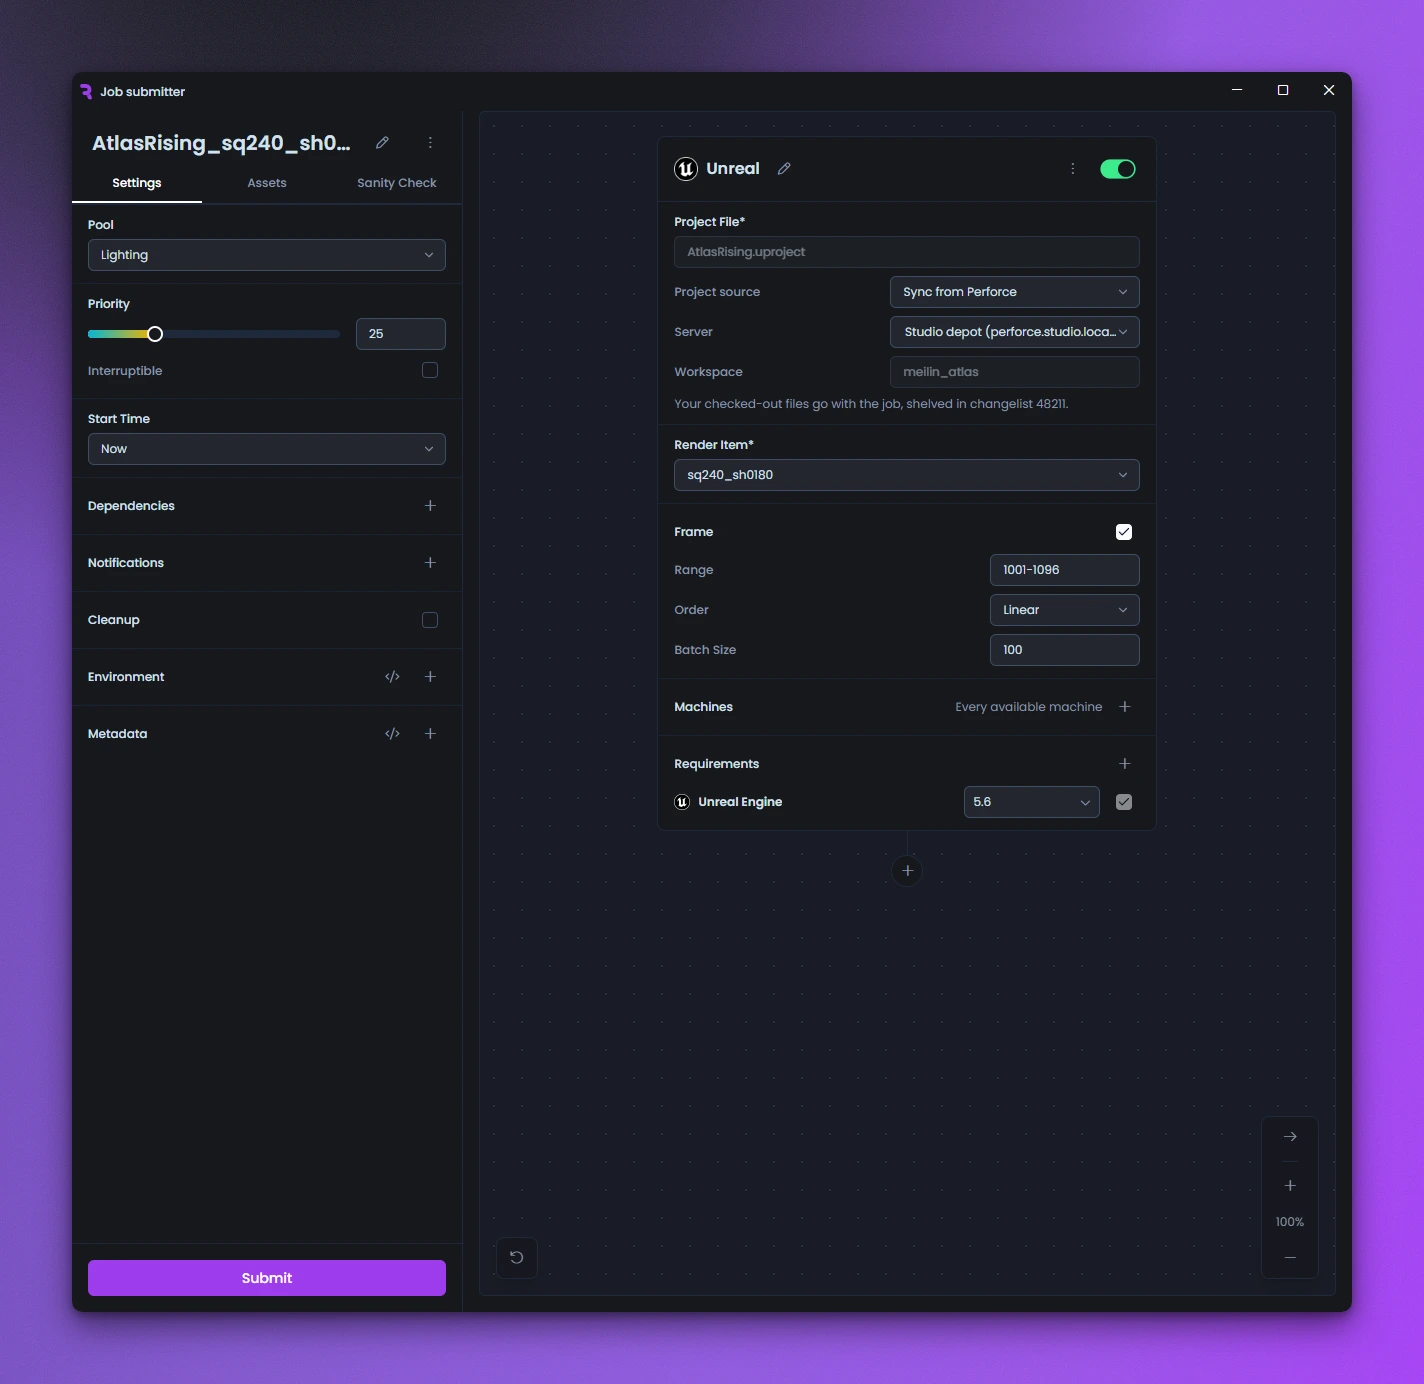
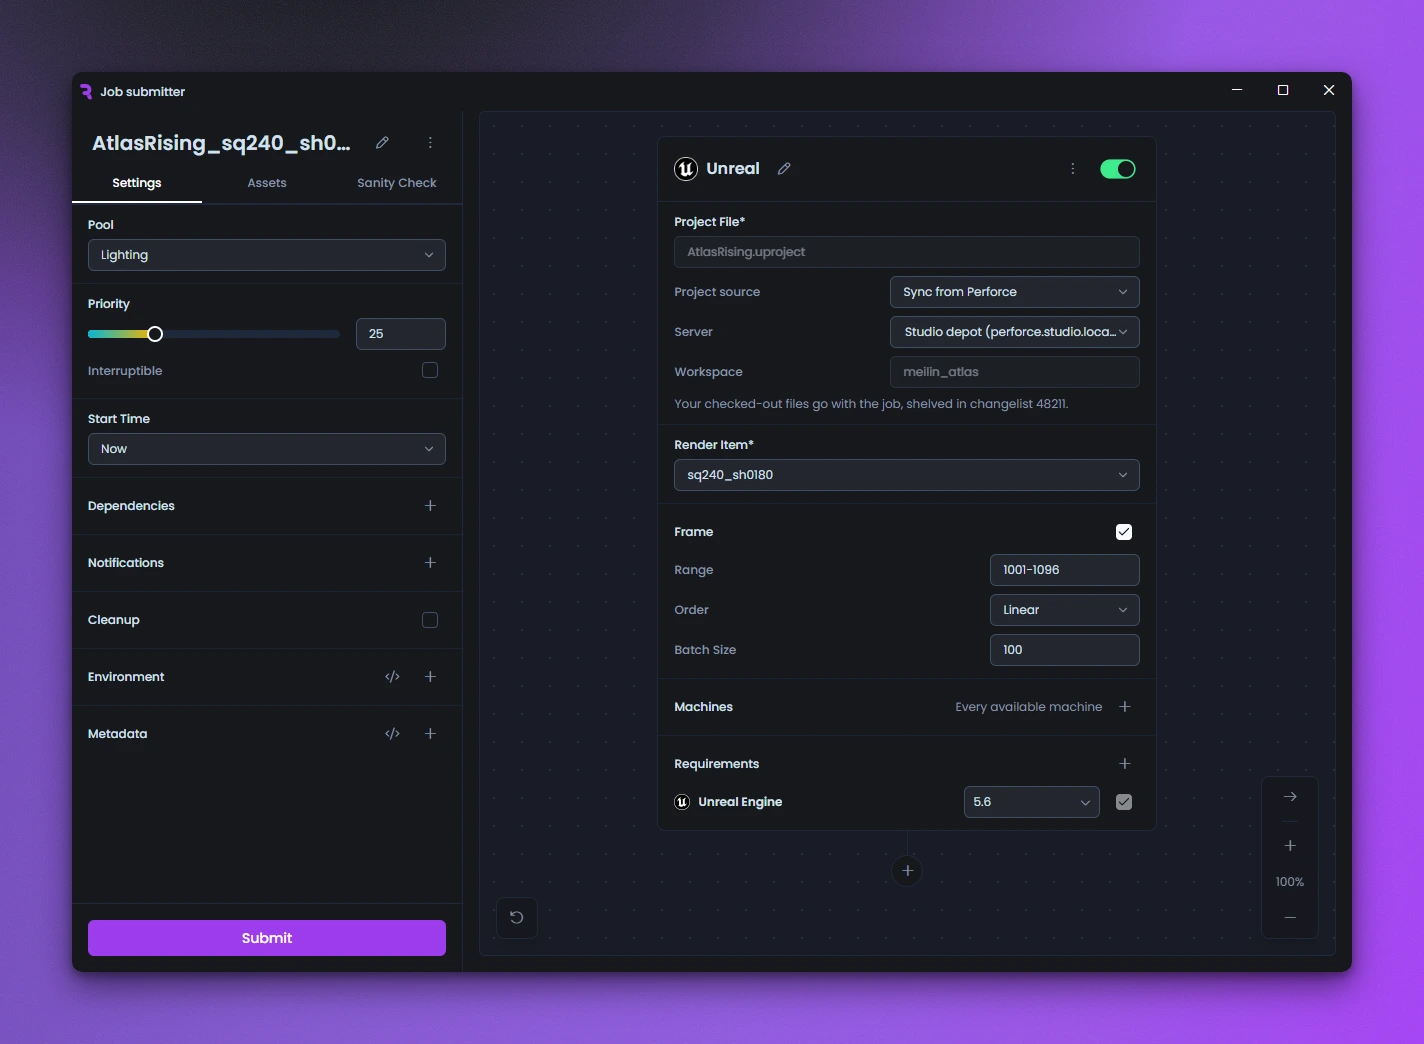
update

diff --git a/renderflow/v2/getting-started/server-and-nodes.md b/renderflow/v2/getting-started/server-and-nodes.md
@@ -108,14 +108,14 @@ A new farm has one pool (Default) with every machine in it, which is the right p
 
 The **Machines** screen lists every machine with its status, hardware and whatever it is working on.
 
+<Frame caption="The Machines screen">
+  <img src="/images/renderflow/v2/rf_machines.webp" alt="The Machines screen listing every machine in the farm with its status and hardware" />
+</Frame>
+
 The **Jobs** and **Machines** screens both keep saved views as tabs above the table. Press the **+** that appears beside the tabs (**New view**), then press **Filter** or **Sort** to shape it: the view keeps its filters, sort and columns. Views are kept in the browser of the machine you set them up on.
 
 <Frame caption="The Jobs screen with saved views as tabs above the table">
   <img src="/images/renderflow/v2/rf_jobs_list.webp" alt="The Jobs screen with the tabs All, My jobs, Failed and Lighting above the jobs table" />
-</Frame>
-
-<Frame caption="The Machines screen">
-  <img src="/images/renderflow/v2/rf_machines.webp" alt="The Machines screen listing every machine in the farm with its status and hardware" />
 </Frame>
 
 The **Farm** shows the same farm as a diagram, with the machines clustered under the job each one is rendering, so you can see at a glance where the work is going and which machines are sitting idle. Double-click a job to zoom in on it and watch the machines rendering it live.

diff --git a/renderflow/v2/getting-started/supported-apps.md b/renderflow/v2/getting-started/supported-apps.md
@@ -23,10 +23,10 @@ RenderFlow detects the applications and render engines installed on every machin
 | Fusion | 17 to 21 | Windows, Linux, macOS | |
 | Harmony | 20 to 27 | Windows, Linux, macOS | |
 | Houdini | Any | Windows, Linux, macOS | Karma, Mantra, Arnold, Redshift |
-| KeyShot | 12, 13 and 2023 to 2026 | Windows, Linux, macOS | |
+| KeyShot | 2023 to 2026 | Windows, Linux, macOS | |
 | Maya | 2022 to 2027 | Windows, Linux, macOS | Arnold, V-Ray, Redshift, RenderMan |
 | Media Encoder | Any | Windows, macOS | |
-| Nuke | 14.0 to 17.1 | Windows, Linux, macOS | |
+| Nuke | 14.0 and newer | Windows, Linux, macOS | |
 | Premiere Pro | 25.3 and newer | Windows, macOS | |
 | Rhino | 7 and 8 | Windows | V-Ray, rendered by V-Ray Standalone |
 | SketchUp | Any | Windows, macOS | V-Ray, rendered by V-Ray Standalone |

diff --git a/renderflow/v2/getting-started/requirements.md b/renderflow/v2/getting-started/requirements.md
@@ -11,8 +11,6 @@ keywords: ['render farm hardware requirements', 'render farm system requirements
 
 RenderFlow requires a Pulze account with either a RenderFlow subscription or an active trial. Only the server signs in to that account, and it holds the licences for the whole farm, so the machines that join it need no account of their own.
 
-Render engines and applications licensed per seat are counted by the farm. Press **Add licenses** in **Settings → Licenses**, pick the **Product** and enter the **Seats** you own. A step that needs a seat waits until one is free.
-
 ## Hardware
 
 ### Server
